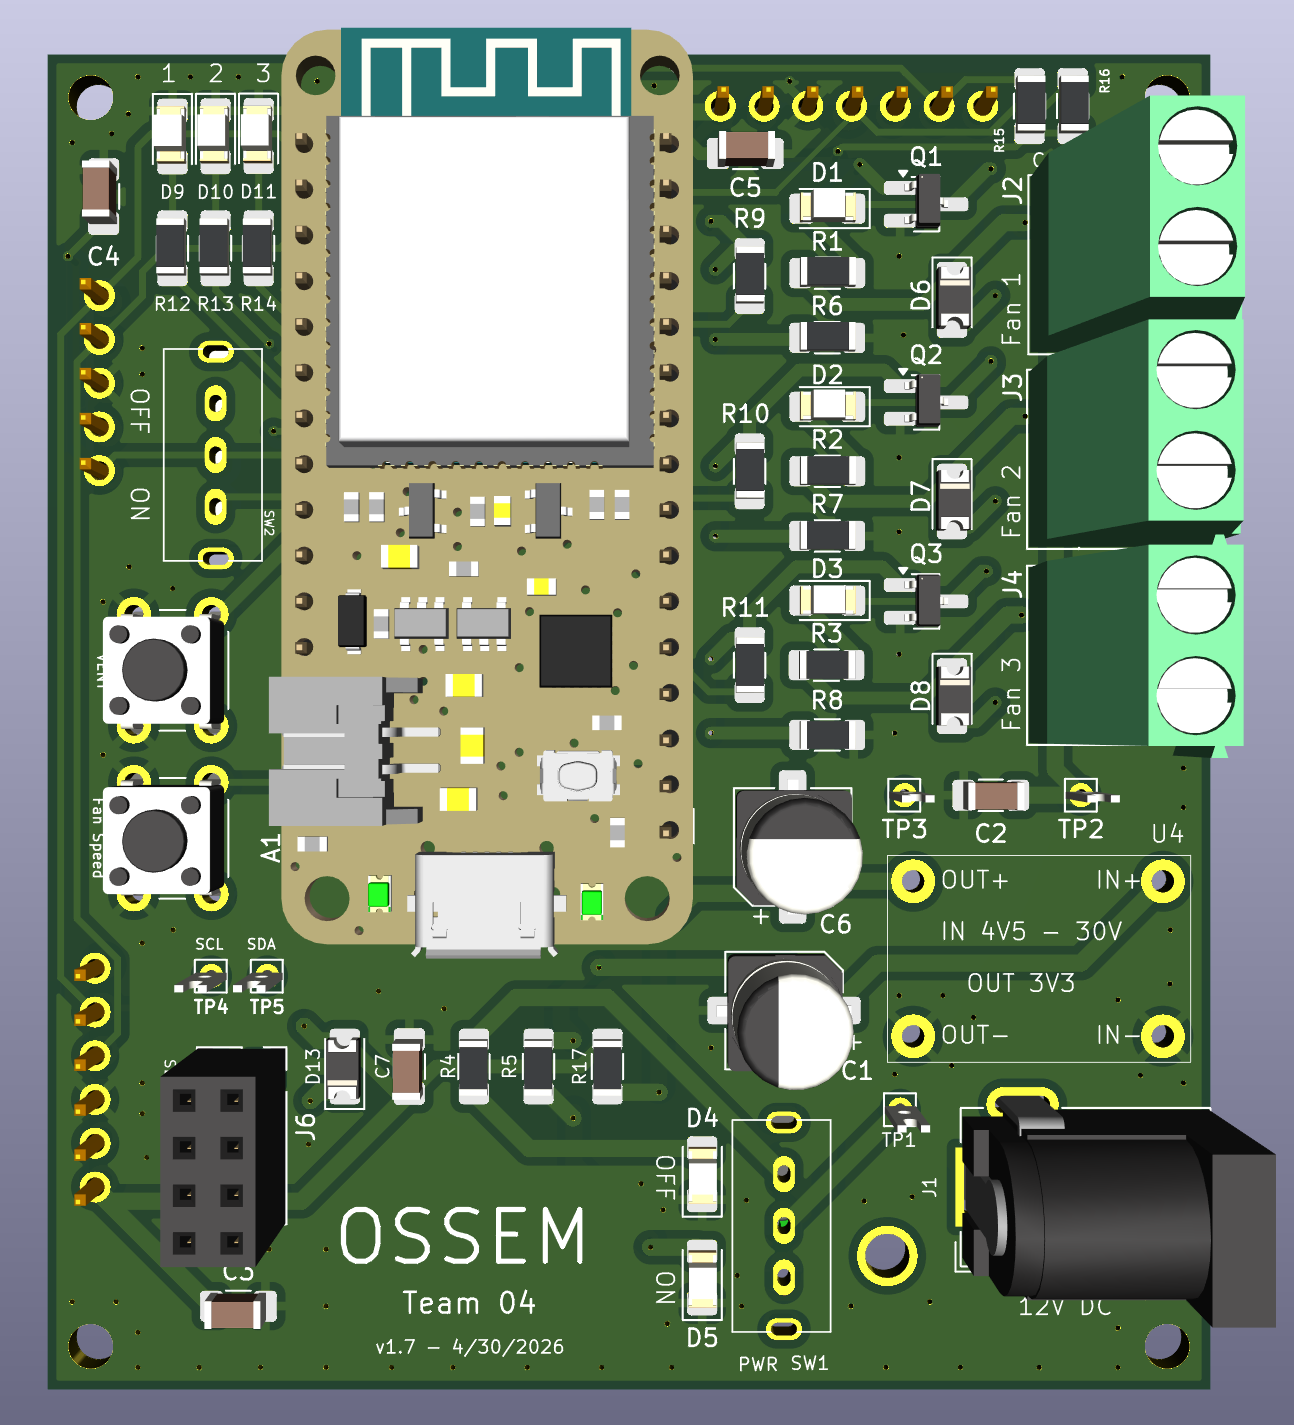
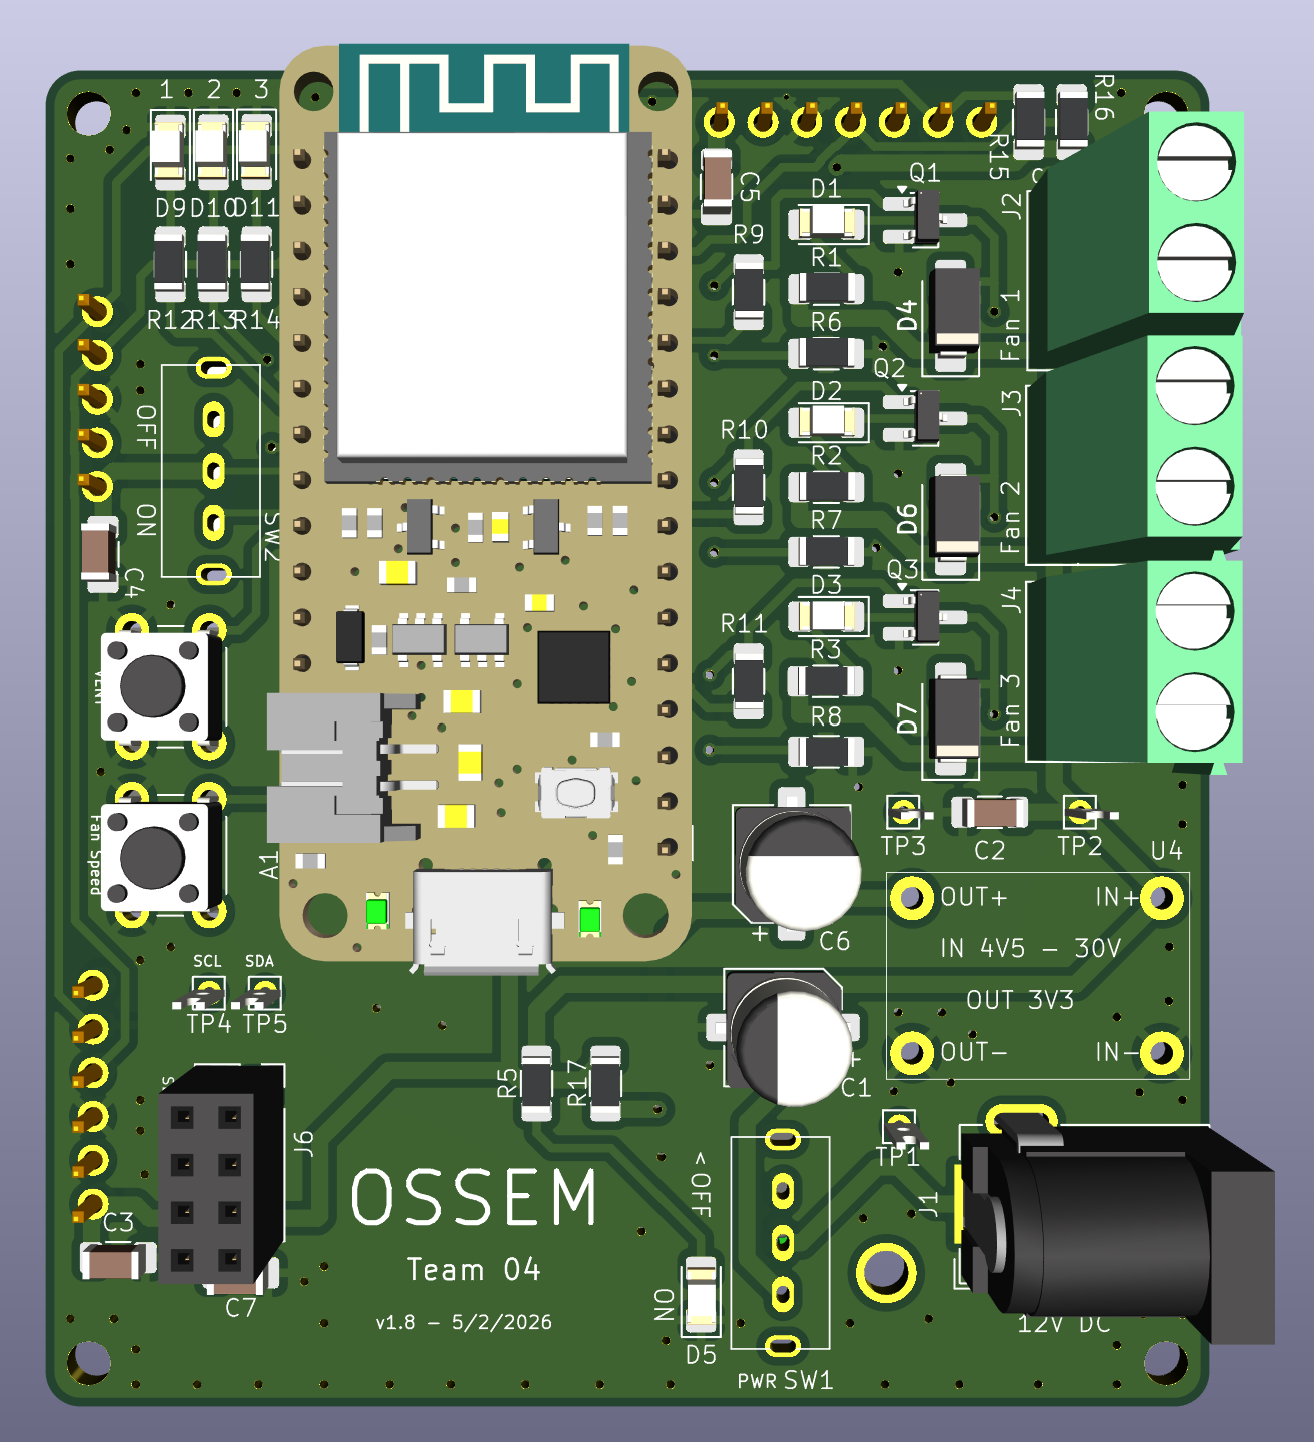
updated pictures

diff --git a/README.md b/README.md
@@ -16,7 +16,15 @@ Working with the Healthy Buildings Research Lab and the Coffee Telesensing Lab a
 </p>
 
 <p align="center">
-  <img src="img/full_PCB.png" width="500">
+  <img src="img/ECU_schematic_v1.8.png" width="500">
+</p>
+
+<p align="center">
+  <em>Smart Espresso Machine – Schematic v1.8</em>
+</p>
+
+<p align="center">
+  <img src="img/PCB_all_layers.png" width="500">
 </p>
 
 <p align="center">
@@ -37,4 +45,28 @@ Working with the Healthy Buildings Research Lab and the Coffee Telesensing Lab a
 
 <p align="center">
   <em>Smart Espresso Machine – 3D PCB Back</em>
+</p>
+
+<p align="center">
+  <img src="img/PCB_front.png" width="500">
+</p>
+
+<p align="center">
+  <em>Smart Espresso Machine – PCB front</em>
+</p>
+
+<p align="center">
+  <img src="img/PCB_back.png" width="500">
+</p>
+
+<p align="center">
+  <em>Smart Espresso Machine – PCB back</em>
+</p>
+
+<p align="center">
+  <img src="img/PCB_back_dimensions.png" width="500">
+</p>
+
+<p align="center">
+  <em>Smart Espresso Machine – PCB back with dimensions</em>
 </p>